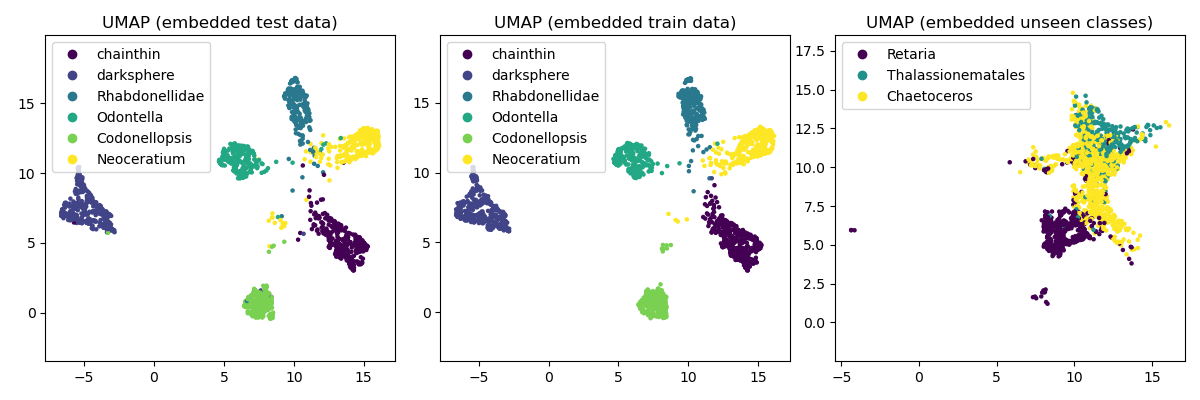
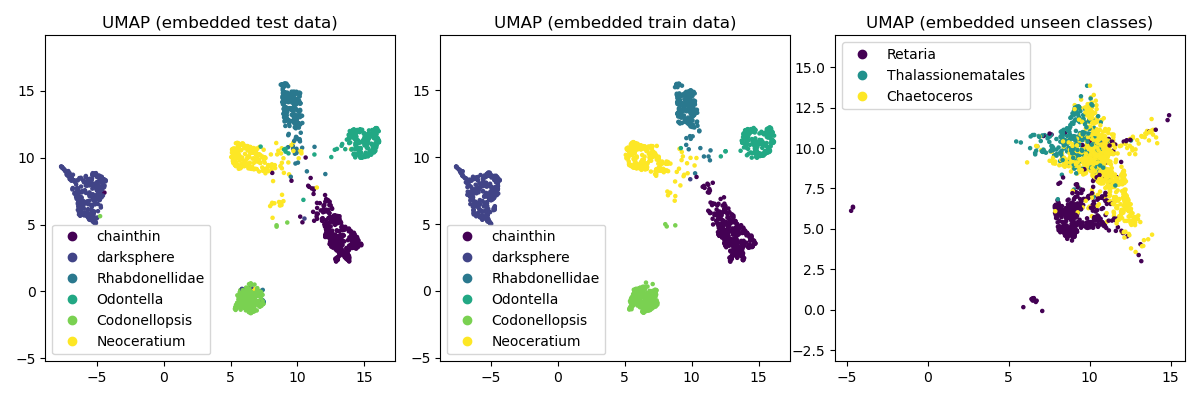
rimi

diff --git a/dimensionality_reduction.py b/dimensionality_reduction.py
@@ -21,7 +21,7 @@ if __name__ == "__main__":
     df_unseen = pd.read_pickle("embeddings_unseen.pkl")
     
     # Randomly subsample images
-    number_of_samples = 2000
+    number_of_samples = 1500
     df_test = sample_df(df_test, number_of_samples)
     df_train = sample_df(df_train, number_of_samples)
     df_unseen = sample_df(df_unseen, number_of_samples)

diff --git a/README.md b/README.md
@@ -137,8 +137,13 @@ The above matrices shows the average Euclidean distances between classes for the
 
 For the average angular distances, we observe the same thing as above: the classes our classifier has trained on have good separation (maybe even better than in the Euclidean case), whereas unseen classes seems to be all over the place.
 
+## Task 6
+To obtain the plots in this task, run `dimensionality_reduction.py`.
 
+First, we randomly sample 1500 images from each of the datasets (train data, test data and unseen classes). Then we compute the embeddings of these 4500 points and fit UMAP on them reducing the dimensions from 128 to 2. At last, we plot the output from UMAP for each of the datasets and save the plot to `umap_embeddings.png`.
 
+![UMAP of embeddings](umap_embeddings.png)
 
+We see that the classes the classifier is trained on are well-separated even in 2 dimensions after applying UMAP. This holds true for both the test data and the training data. For the unseen classes, we observe some separation, but also some overlap. Especially the third unseen class *Chaetoceros*, overlap with both other unseen classes.
 
 
